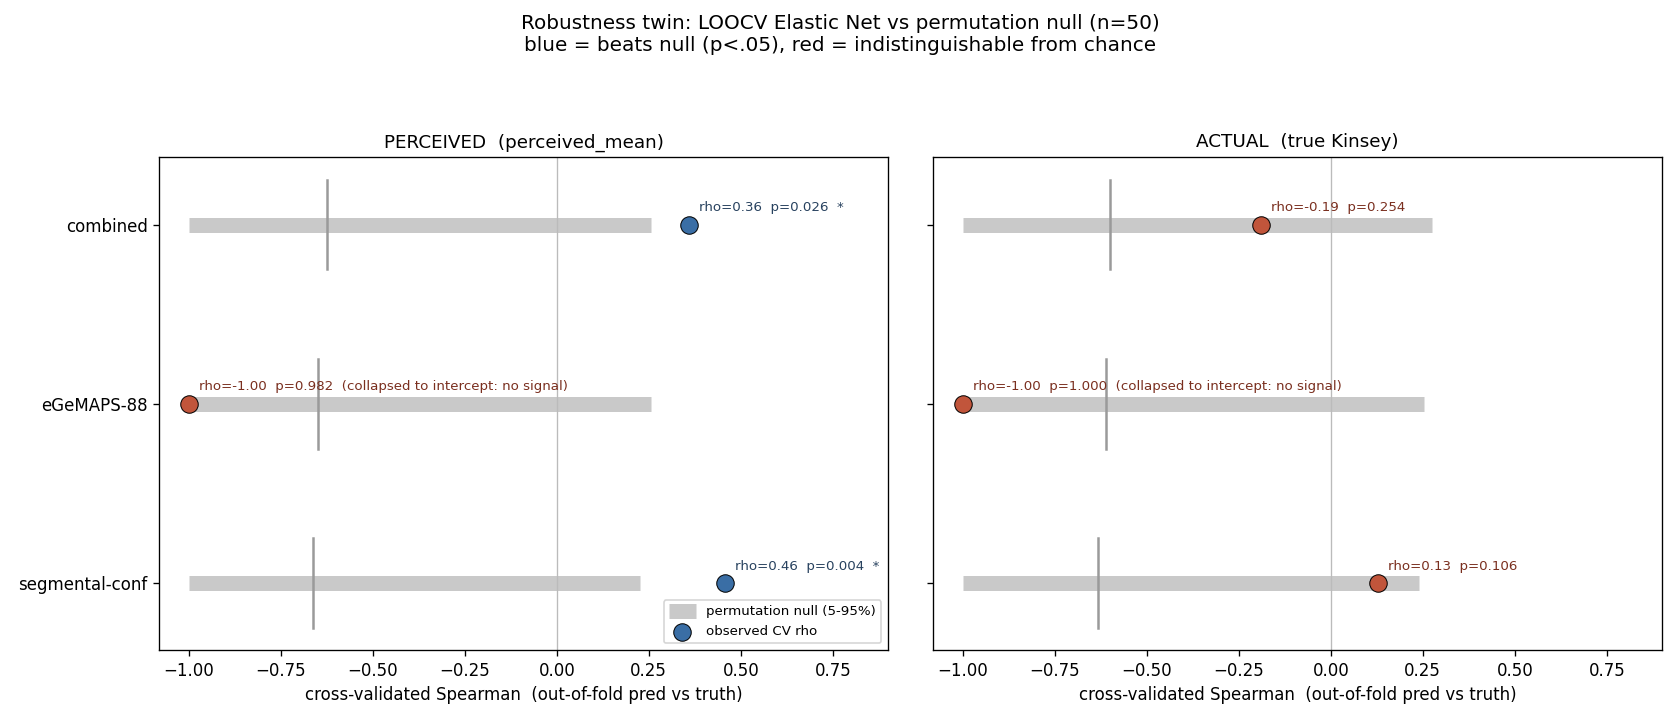
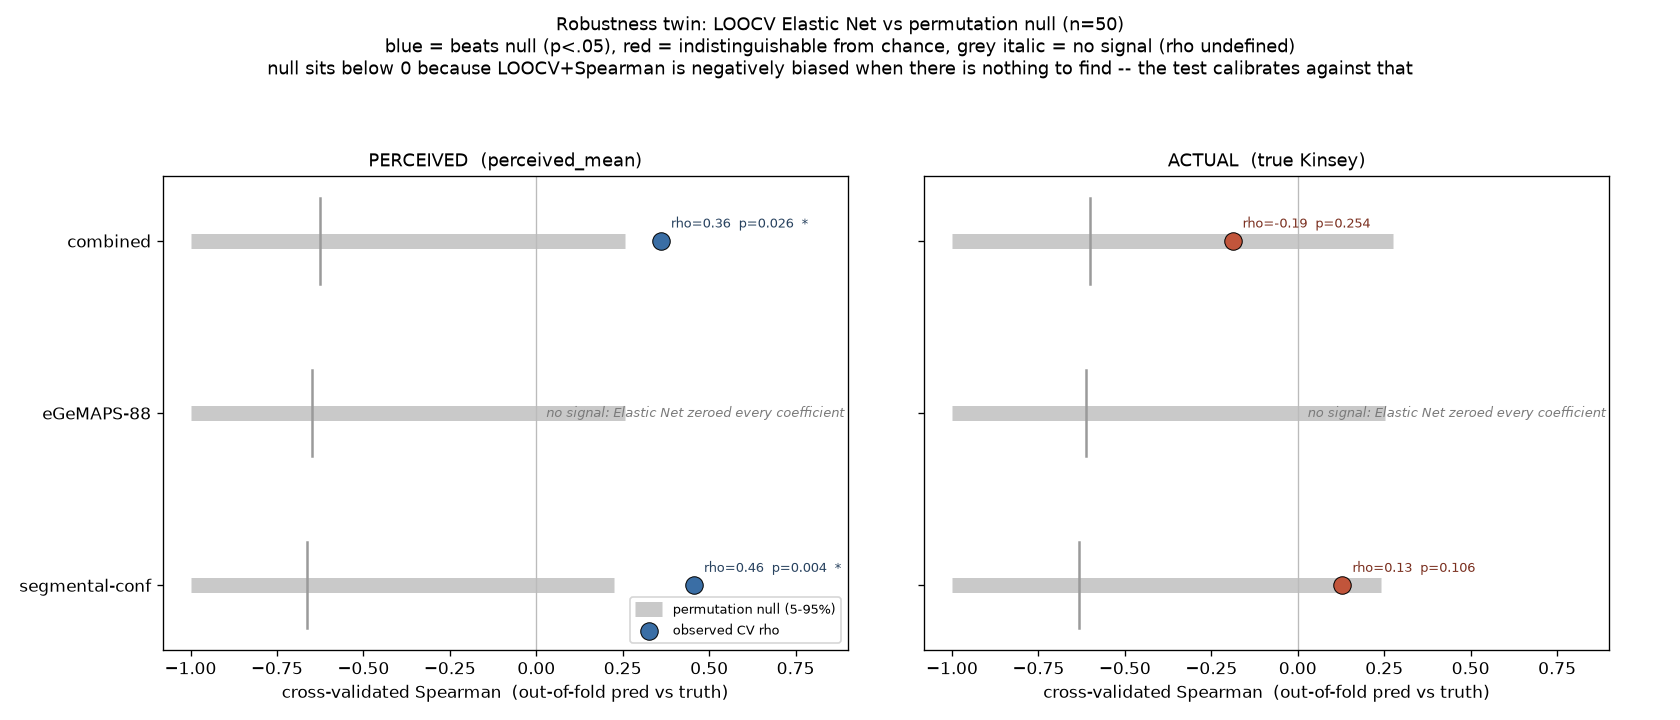
fix: report enet intercept collapse as no-signal, not rho = -1.0

diff --git a/F25/src/07c_elasticnet.py b/F25/src/07c_elasticnet.py
@@ -24,10 +24,32 @@ Speed: ElasticNetCV is ~10-30x heavier per fit than RidgeCV's analytic inner-LOO
 
 Expected result, same as 07: PERCEIVED beats its permutation null; ACTUAL does not.
 
+The rho=-1 intercept artefact (why some cells are reported as undefined):
+  When the inner CV picks an alpha large enough to zero EVERY coefficient, the fold has no
+  features left and predicts only its training intercept -- which in LOOCV is the leave-one-out
+  mean (SUM y - y_i)/(n-1), a strictly DECREASING function of y_i. Spearman of that against y
+  is exactly -1 for ANY data. It means "the model found nothing", not "the model predicts
+  backwards", so it is recorded as undefined (NaN) rather than as a strong negative result.
+
+  This makes the metric NEGATIVELY BIASED under H0, not merely noisy: on shuffled labels the
+  same collapse fires ~15-55% of the time (see null_collapse_frac), which is why null_mean sits
+  near -0.6 instead of 0. That bias is a property of LOOCV+Spearman, NOT a defect in the null --
+  and calibrating against it is exactly what a permutation test is for, so every draw is kept
+  when computing p (see summarise). Read null_mean/null_p95 as "what this metric does when there
+  is nothing to find", never as evidence of inverse prediction. The cost is POWER, not validity:
+  a metric that throws away a third of its draws on a degenerate value is a blunt instrument.
+  If that ever bites, the fix is a less pathological metric (K-fold rather than LOO) -- which is
+  a full recompute and a change to 07's shared harness, so it is deliberately not done here.
+
 Outputs (shared prediction/ folder for cross-model comparison with ridge_*):
   outputs/tables/enet_summary.csv            one row per (target x feature set)
   outputs/figures/prediction/enet_null.png   observed CV rho vs permutation null
+  outputs/tables/enet_nulls.npz              raw null draws (see --from-cache)
+
+Run with --from-cache to re-derive the summary and figure from the persisted null draws
+without paying the ~6h recompute.
 """
+import argparse
 import warnings
 import matplotlib
 matplotlib.use('Agg')
@@ -50,6 +72,11 @@ TARGETS = {'perceived': 'perceived_mean', 'actual': KINSEY}
 
 N_PERM = 1000
 SEED = 0
+# A fully-collapsed fit scores exactly -1 (see the artefact note in the module docstring);
+# a near-total collapse -- most folds zeroed, a stray fold not -- lands a hair above it and is
+# just as meaningless, so the test is a tolerance rather than equality. Genuine inverse
+# prediction across n=50 never reaches this.
+COLLAPSE_RHO = -0.999
 # a-priori inner-CV grid: l1_ratio spans balanced (.5) to near-Lasso (.99). A coarse grid
 # is deliberate -- Elastic Net is insensitive to fine l1_ratio spacing, and CD on the
 # correlated eGeMAPS block is the runtime bottleneck. alphas auto (n_alphas below).
@@ -88,33 +115,55 @@ def make_model():
                      max_iter=MAX_ITER, random_state=SEED, n_jobs=1))
 
 
+def is_collapsed(rho):
+    """True when rho is the intercept artefact rather than a real (inverse) fit."""
+    return bool(np.isfinite(rho) and rho <= COLLAPSE_RHO)
+
+
+def collapse_note(r):
+    """Why a cell has no rho. The fold fraction is unavailable when re-deriving from a
+    summary written before it was recorded, so it is only named when known."""
+    if np.isfinite(r['zeroed_folds']):
+        return f"Elastic Net zeroed every coefficient in {r['zeroed_folds']:.0%} of folds"
+    return 'Elastic Net zeroed every coefficient'
+
+
 def loocv_oof(X, y):
-    """Out-of-fold predictions: for each speaker, train on the other 49 and predict it."""
+    """Out-of-fold predictions + the fraction of folds that zeroed every coefficient.
+
+    The zeroed-fold fraction is the mechanism behind the rho=-1 artefact, reported as a
+    diagnostic so a collapsed cell can be read as "no features survived" rather than a mystery.
+    """
     n = len(y)
     oof = np.empty(n)
     idx = np.arange(n)
+    zeroed = 0
     with warnings.catch_warnings():
         warnings.simplefilter('ignore', ConvergenceWarning)
         for i in range(n):
             tr = idx != i
-            oof[i] = make_model().fit(X[tr], y[tr]).predict(X[i:i + 1])[0]
-    return oof
+            m = make_model().fit(X[tr], y[tr])
+            if not np.any(m[-1].coef_):                    # ElasticNetCV step of the pipeline
+                zeroed += 1
+            oof[i] = m.predict(X[i:i + 1])[0]
+    return oof, zeroed / n
 
 
 def cv_score(X, y):
     """Cross-validated Spearman between out-of-fold predictions and truth."""
-    oof = loocv_oof(X, y)
+    oof, zeroed_frac = loocv_oof(X, y)
     rho = spearmanr(oof, y).statistic
     ss = ((y - oof) ** 2).sum()
     r2 = 1 - ss / ((y - y.mean()) ** 2).sum()          # out-of-fold R^2 (can be < 0)
     mae = np.abs(y - oof).mean()
-    return rho, r2, mae
+    return rho, r2, mae, zeroed_frac
 
 
 def _perm_stat(X, y, seed):
     """One permutation: shuffle labels, re-run the whole LOOCV, return null Spearman."""
     yp = np.random.default_rng(seed).permutation(y)
-    return spearmanr(loocv_oof(X, yp), yp).statistic
+    oof, _ = loocv_oof(X, yp)
+    return spearmanr(oof, yp).statistic
 
 
 def permutation_null(X, y):
@@ -125,14 +174,33 @@ def permutation_null(X, y):
     return np.asarray(nulls)
 
 
-def evaluate(name, X, y):
-    rho, r2, mae = cv_score(X, y)
-    nulls = permutation_null(X, y)
+def summarise(rho_raw, r2, mae, zeroed_frac, nulls, n_features, n):
+    """Fold one (target x feature set) cell down to its reported row.
+
+    The p-value deliberately uses EVERY null draw, collapsed ones included. It is tempting to
+    drop them as degenerate, but they are honest H0 behaviour: under the null the observed fit
+    collapses just as often as a shuffled one does, so observed and null draws stay exchangeable
+    and the unfiltered p is exact. Screening the null by value would break that exchangeability
+    and buy nothing -- collapsed draws never exceed a positive observed rho anyway.
+
+    What the artefact does corrupt is INTERPRETATION, so that is what gets screened: a collapsed
+    observation is reported as undefined rather than as a strong negative result.
+    """
+    collapsed = is_collapsed(rho_raw)
     # one-sided (we only care about predicting BETTER than chance); +1 smoothing
-    p = (1 + int((nulls >= rho).sum())) / (N_PERM + 1)
-    return {'cv_spearman': rho, 'cv_r2': r2, 'cv_mae': mae, 'perm_p': p,
-            'null_mean': float(nulls.mean()), 'null_p95': float(np.percentile(nulls, 95)),
-            'n_features': X.shape[1], 'n': len(y), '_nulls': nulls}
+    p = (1 + int((nulls >= rho_raw).sum())) / (len(nulls) + 1)
+    return {'cv_spearman': np.nan if collapsed else rho_raw, 'cv_spearman_raw': rho_raw,
+            'collapsed': collapsed, 'cv_r2': r2, 'cv_mae': mae, 'zeroed_folds': zeroed_frac,
+            'perm_p': p, 'null_mean': float(nulls.mean()),
+            'null_p95': float(np.percentile(nulls, 95)),
+            'null_collapse_frac': float(np.mean([is_collapsed(v) for v in nulls])),
+            'n_features': n_features, 'n': n, '_nulls': nulls}
+
+
+def evaluate(name, X, y):
+    rho_raw, r2, mae, zeroed_frac = cv_score(X, y)
+    nulls = permutation_null(X, y)
+    return summarise(rho_raw, r2, mae, zeroed_frac, nulls, X.shape[1], len(y))
 
 
 def figure(rows, path):
@@ -145,24 +213,27 @@ def figure(rows, path):
         for yi, fs in zip(y, order):
             r = sub[fs]
             nl = r['_nulls']
+            # every draw, collapsed included -- this band is the metric's true H0 behaviour
             lo, hi = np.percentile(nl, [5, 95])
             ax.plot([lo, hi], [yi, yi], color='#c9c9c9', lw=9, solid_capstyle='butt',
                     zorder=1, label='permutation null (5-95%)' if yi == 0 else None)
-            ax.plot([nl.mean(), nl.mean()], [yi - 0.25, yi + 0.25], color='#9a9a9a', lw=1.5,
+            ax.plot([nl.mean()] * 2, [yi - 0.25, yi + 0.25], color='#9a9a9a', lw=1.5,
                     zorder=2)
+            if r['collapsed']:
+                # No point to plot: the fit zeroed every coefficient, so rho is undefined
+                # rather than strongly negative (see the artefact note in the docstring).
+                ax.annotate(f'no signal: {collapse_note(r)}',
+                            (0, yi), xytext=(6, 0), textcoords='offset points',
+                            fontsize=8, color='#7a7a7a', style='italic', va='center')
+                continue
             beats = r['perm_p'] < 0.05
             rho = r['cv_spearman']
-            # rho == -1 is the LOO mean-artifact: Elastic Net zeroed every coefficient
-            # (no signal), so oof_i = (SUM y - y_i)/(n-1), strictly decreasing in y_i.
-            collapsed = rho <= -0.999
             ax.scatter([rho], [yi], s=110, zorder=3,
                        color='#3a6ea5' if beats else '#c1553b',
                        edgecolor='k', linewidth=0.6,
                        label='observed CV rho' if yi == 0 else None)
-            txt = (f"rho={rho:.2f}  p={r['perm_p']:.3f}" + ('  *' if beats else ''))
-            if collapsed:
-                txt += '  (collapsed to intercept: no signal)'
-            ax.annotate(txt, (rho, yi), xytext=(6, 8), textcoords='offset points',
+            ax.annotate(f"rho={rho:.2f}  p={r['perm_p']:.3f}" + ('  *' if beats else ''),
+                        (rho, yi), xytext=(6, 8), textcoords='offset points',
                         fontsize=8, color='#28425f' if beats else '#7a2f1f')
         ax.axvline(0, color='#bbb', lw=0.8)
         ax.set_yticks(y)
@@ -171,19 +242,42 @@ def figure(rows, path):
         ax.set_title(f'{tgt.upper()}  '
                      + ('(perceived_mean)' if tgt == 'perceived' else '(true Kinsey)'),
                      fontsize=11)
-        ax.set_xlim(-1.08, 0.9)          # wide enough to show a fully-collapsed rho=-1
+        ax.set_xlim(-1.08, 0.9)          # wide enough for the null's collapsed tail at rho=-1
     axes[0].legend(fontsize=8, loc='lower right')
     fig.suptitle('Robustness twin: LOOCV Elastic Net vs permutation null (n=50)\n'
-                 'blue = beats null (p<.05), red = indistinguishable from chance',
-                 fontsize=12)
+                 'blue = beats null (p<.05), red = indistinguishable from chance, '
+                 'grey italic = no signal (rho undefined)\n'
+                 'null sits below 0 because LOOCV+Spearman is negatively biased when there is '
+                 'nothing to find -- the test calibrates against that',
+                 fontsize=11)
     fig.tight_layout(rect=[0, 0, 1, 0.93])
     fig.savefig(path, dpi=120)
     plt.close(fig)
 
 
-def main():
-    ensure_dirs(TABLES, PRED_DIR)
-    print('07c_elasticnet.py  (robustness twin: honest LOOCV Elastic Net + permutation null)')
+def from_cache():
+    """Re-derive the rows from persisted null draws + the last summary -- no refit.
+
+    The null draws are raw data (a rho is a rho); only the screening and reporting around them
+    changed, so the ~6h of fits does not need repeating. cv_spearman_raw is kept in the summary
+    precisely so this stays idempotent -- reading back a NaN'd cv_spearman would lose the
+    artefact value needed to re-detect the collapse.
+    """
+    nulls = np.load(TABLES / 'enet_nulls.npz')
+    prev = pd.read_csv(TABLES / 'enet_summary.csv')
+    raw_col = 'cv_spearman_raw' if 'cv_spearman_raw' in prev.columns else 'cv_spearman'
+    rows = []
+    for _, r in prev.iterrows():
+        res = summarise(float(r[raw_col]), float(r['cv_r2']), float(r['cv_mae']),
+                        float(r['zeroed_folds']) if 'zeroed_folds' in prev.columns else np.nan,
+                        nulls[f"{r['target']}__{r['feature_set']}"],
+                        int(r['n_features']), int(r['n']))
+        res.update({'target': r['target'], 'feature_set': r['feature_set']})
+        rows.append(res)
+    return rows
+
+
+def compute():
     sp = pd.read_csv(SPEAKERS_CSV)
     seg = pd.read_csv(PROC / 'segmental_speaker.csv')
     tokens = pd.read_csv(PROC / 'segmental_tokens.csv')
@@ -208,18 +302,43 @@ def main():
             res = evaluate(fs_name, X, y)
             res.update({'target': tgt_name, 'feature_set': fs_name})
             rows.append(res)
-            print(f"  {tgt_name:10} {fs_name:14} k={res['n_features']:3d}  "
-                  f"CV rho={res['cv_spearman']:+.3f}  R2={res['cv_r2']:+.2f}  "
-                  f"perm p={res['perm_p']:.3f}  (null mean {res['null_mean']:+.2f}, "
-                  f"95% {res['null_p95']:+.2f})")
+    return rows
+
+
+def report(r):
+    """One console line per cell; collapsed cells have no rho or p to print."""
+    head = f"  {r['target']:10} {r['feature_set']:14} k={r['n_features']:3d}  "
+    tail = (f"perm p={r['perm_p']:.3f}  (null mean {r['null_mean']:+.2f}, "
+            f"95% {r['null_p95']:+.2f}, {r['null_collapse_frac']:.0%} of draws collapsed)")
+    if r['collapsed']:
+        return head + f"NO SIGNAL ({collapse_note(r)}; rho undefined)  {tail}"
+    return head + (f"CV rho={r['cv_spearman']:+.3f}  R2={r['cv_r2']:+.2f}  {tail}")
+
+
+def main():
+    ap = argparse.ArgumentParser(description=__doc__.split('\n')[0])
+    ap.add_argument('--from-cache', action='store_true',
+                    help='re-derive summary + figure from tables/enet_nulls.npz '
+                         '(no ~6h recompute)')
+    args = ap.parse_args()
+
+    ensure_dirs(TABLES, PRED_DIR)
+    print('07c_elasticnet.py  (robustness twin: honest LOOCV Elastic Net + permutation null)')
+    rows = from_cache() if args.from_cache else compute()
+    if args.from_cache:
+        print('  (re-derived from cached null draws; no refit)')
+    for r in rows:
+        print(report(r))
 
     figure(rows, PRED_DIR / 'enet_null.png')
-    # persist the null arrays so the figure can be re-plotted without the (~6h) recompute
-    np.savez_compressed(TABLES / 'enet_nulls.npz',
-                        **{f"{r['target']}__{r['feature_set']}": r['_nulls'] for r in rows})
+    if not args.from_cache:
+        # persist the null arrays so the figure can be re-plotted without the (~6h) recompute
+        np.savez_compressed(TABLES / 'enet_nulls.npz',
+                            **{f"{r['target']}__{r['feature_set']}": r['_nulls'] for r in rows})
     out = pd.DataFrame([{k: v for k, v in r.items() if k != '_nulls'} for r in rows])
-    out = out[['target', 'feature_set', 'n_features', 'n', 'cv_spearman', 'cv_r2',
-               'cv_mae', 'perm_p', 'null_mean', 'null_p95']]
+    out = out[['target', 'feature_set', 'n_features', 'n', 'cv_spearman', 'cv_spearman_raw',
+               'collapsed', 'zeroed_folds', 'cv_r2', 'cv_mae', 'perm_p', 'null_mean',
+               'null_p95', 'null_collapse_frac']]
     out.to_csv(TABLES / 'enet_summary.csv', index=False)
     print('  -> tables/enet_summary.csv + figures/prediction/enet_null.png')
     print('done.')
